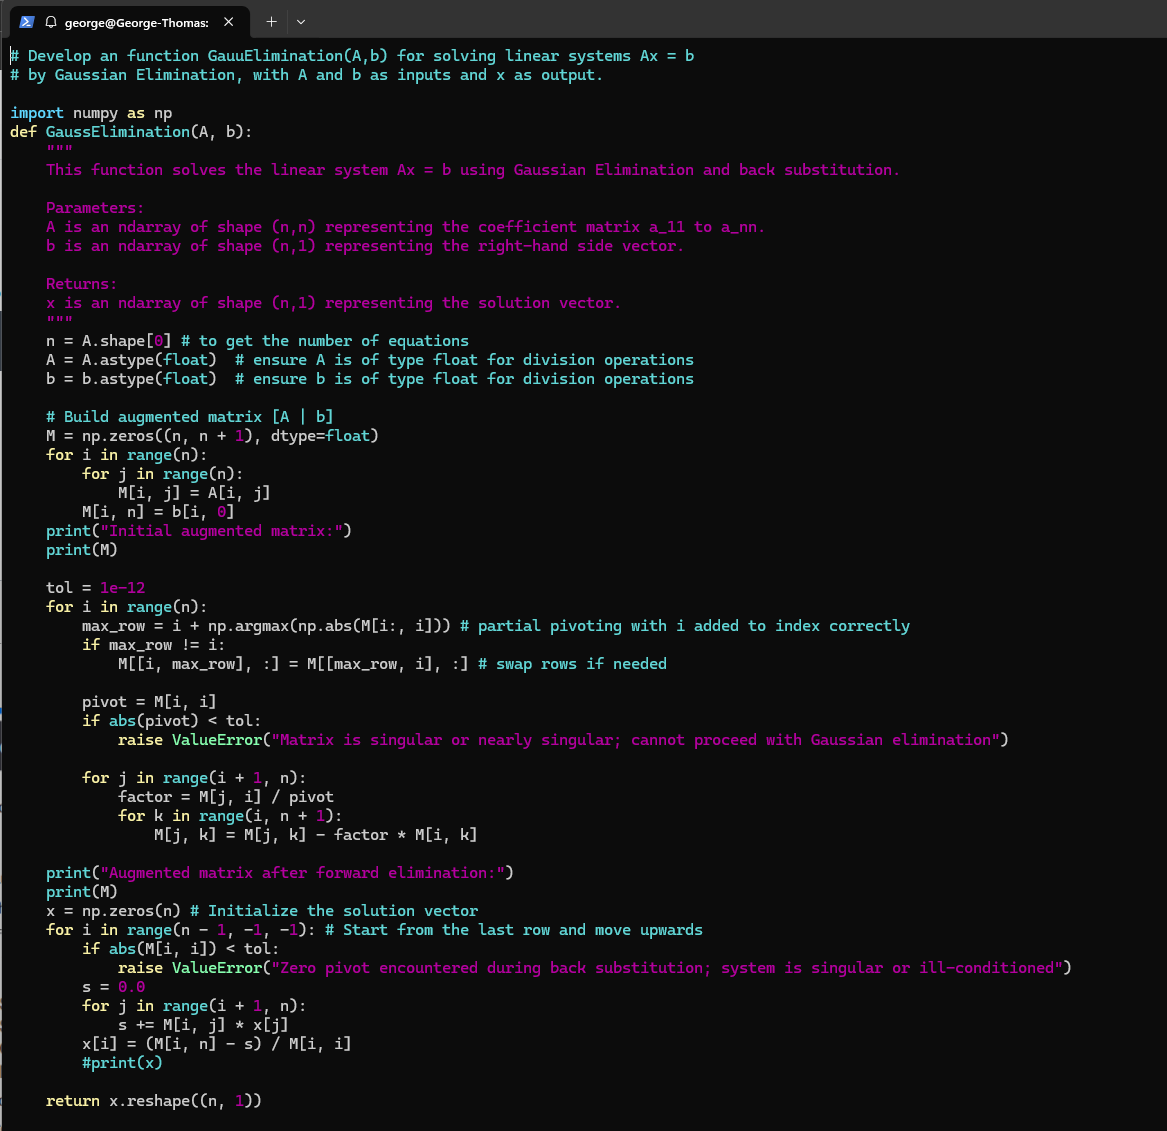
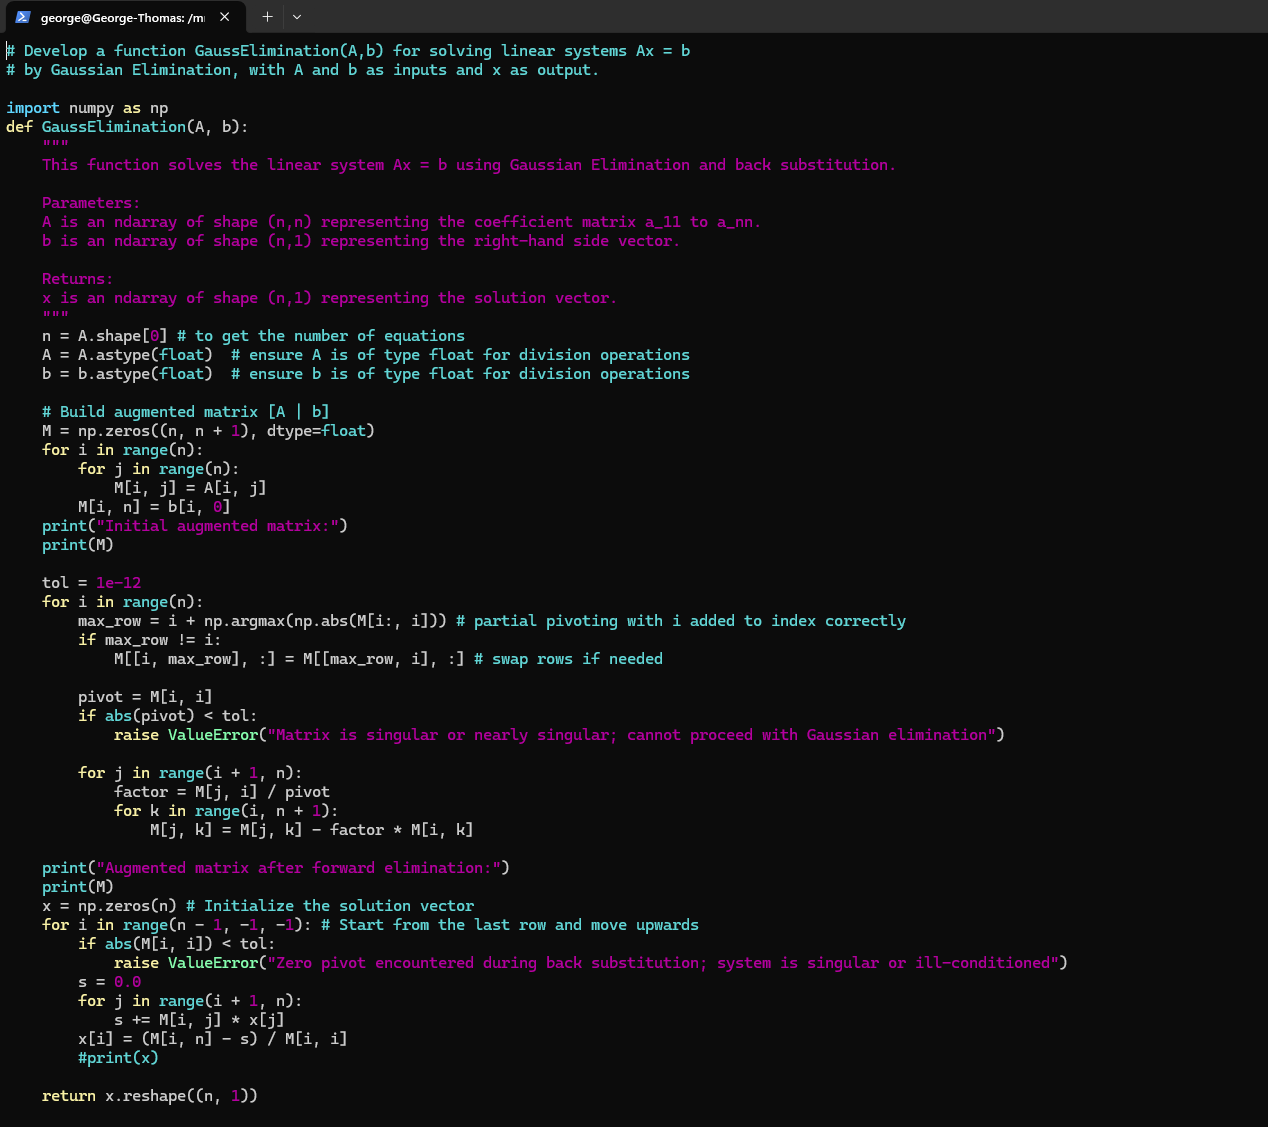
Uploading the solutions for lab 5

Changed region(s): [[0.0, 0.0, 0.9254, 0.9938]]

diff --git a/lecture_5/demo_polynomial_interpolation.py b/lecture_5/demo_polynomial_interpolation.py
@@ -1,4 +1,4 @@
-# Develop an function GauuElimination(A,b) for solving linear systems Ax = b
+# Develop a function GaussElimination(A,b) for solving linear systems Ax = b
 # by Gaussian Elimination, with A and b as inputs and x as output.
 
 import numpy as np
